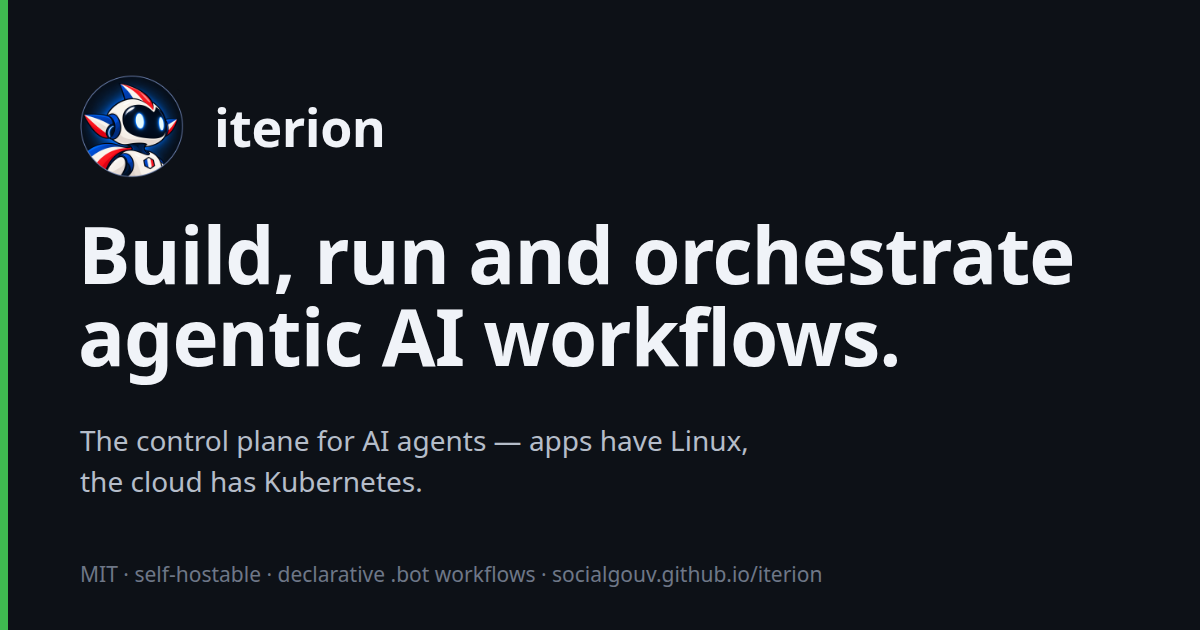
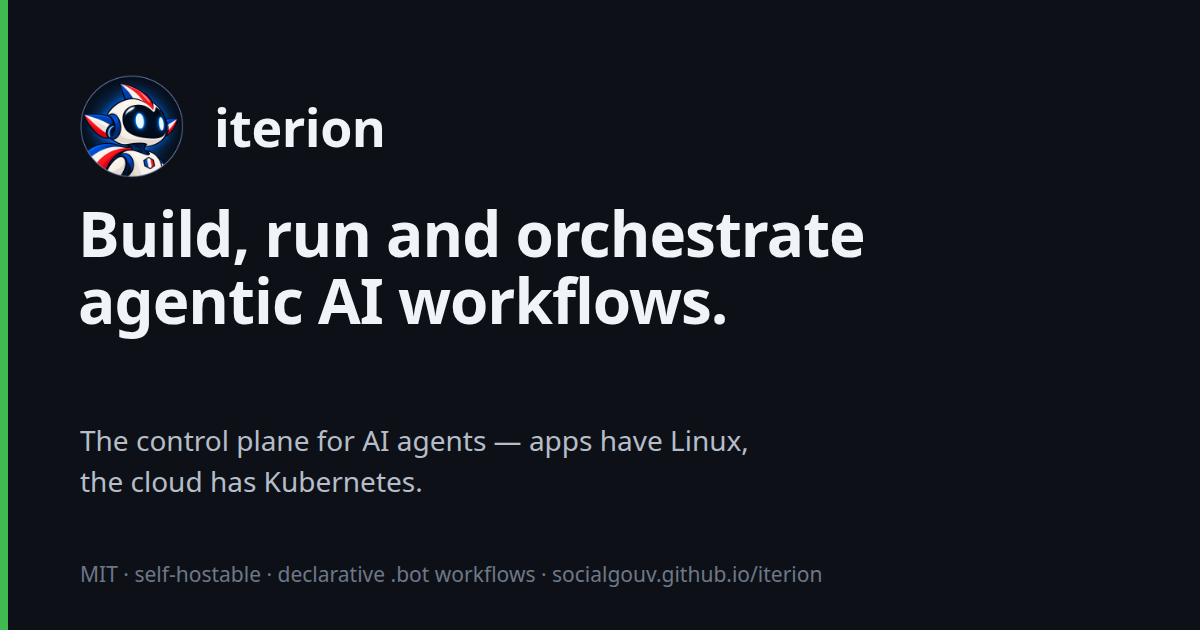
fix(brand): the OG card and its guard, read as one change
Round 3 read rounds 1 and 2 as a single diff, hunting the defect that exists
only because two fixes met. It found one, and it is the archetype: each change
is safe alone.

Round 1 replaced the card's heading with a free-wrapping 47-character sentence
at 78px, leaving ~45px of clearance above the tagline. Round 2 replaced the
pixel-compare guard — rightly, the render depends on unpinned host fonts — with
a source-hash compare. Together:

- the heading wraps to THREE lines under DejaVu Sans, printing `workflows.`
  straight through the tagline. DejaVu is not an exotic host: it is this
  card's own SECOND font-family entry, and the default on a minimal Debian or
  CI image. Rendered and looked at, not inferred.
- and no gate could see it, because the source-hash guard never opens the PNG.
  Measured: with `docs/public/og.png` DELETED it reported "matches the
  committed og-card.html". Strictly weaker than the pixel compare it replaced,
  for the one case it still claimed to cover — while `positioning.md` told the
  reader it "verifies the committed PNG".

So: the heading is sized to survive the widest font in its own stack (62px,
two lines under both fontconfigs, verified by rendering each), and the guard
checks the artefact as well as the source — present, a PNG, 1200×630 from the
IHDR, which is font-independent and does not pretend to judge how the card
looks. Three holes, three distinct diagnostics, each falsified.
[…]

Changed region(s): [[0.0617, 0.3317, 0.8942, 0.6333]]

diff --git a/docs/scripts/og-card.html b/docs/scripts/og-card.html
@@ -21,8 +21,14 @@
       .brand span { font-size: 52px; font-weight: 700; letter-spacing: -0.5px; }
       /* No <br /> in the heading: the definition has to appear as one
          uninterrupted sentence for scripts/brand/positioning-check.sh to
-         recognise it. max-width sets where it wraps instead. */
-      h1 { position: absolute; left: 78px; top: 214px; margin: 0; max-width: 1010px; font-size: 78px; line-height: 1.05; font-weight: 700; letter-spacing: -1px; }
+         recognise it. max-width sets where it wraps instead.
+         Sized to survive the WIDEST font in its own stack, not the first one:
+         at 78px the sentence wrapped to three lines under DejaVu Sans — this
+         card's own second font-family entry, and the default on a minimal
+         Debian or CI image — and printed its last word straight through the
+         tagline. Nothing pins a font here, so the layout has to hold without
+         one. */
+      h1 { position: absolute; left: 78px; top: 200px; margin: 0; max-width: 1010px; font-size: 62px; line-height: 1.08; font-weight: 700; letter-spacing: -1px; }
       .tagline { position: absolute; left: 80px; top: 420px; margin: 0; font-size: 28px; line-height: 1.45; color: #b5bdc9; }
       .footer { position: absolute; left: 80px; top: 560px; font-size: 21px; color: #6e7787; }
     </style>

diff --git a/studio/src/views/CloudHome/definition.test.tsx b/studio/src/views/CloudHome/definition.test.tsx
@@ -4,6 +4,7 @@ import { cleanup, render, screen } from "@testing-library/react";
 import { Router } from "wouter";
 
 import CloudHome from "@/views/CloudHome";
+import { STUDIO_BASE } from "@/lib/scope";
 
 // The sentence, read from nowhere else. A constant here and a constant in the
 // component would both be "the source", and the point of the guard is that
@@ -47,7 +48,12 @@ describe("the iterion.cloud product home", () => {
         <CloudHome signedIn />
       </Router>,
     );
-    expect(screen.getAllByRole("link", { name: /Open the studio/ })[0]).toBeTruthy();
+    // The HREF, not the caption. Asserting the label alone left the bench
+    // green while entryHref pointed back at /login — the exact behaviour the
+    // comment above forbids — and equally green when it pointed at "/", which
+    // loops the CTA back to the page it is on.
+    const cta = screen.getAllByRole("link", { name: /Open the studio/ })[0];
+    expect(cta.getAttribute("href")).toBe(STUDIO_BASE);
     expect(screen.queryByRole("link", { name: /^Sign in/ })).toBeNull();
   });
 });

diff --git a/assets/brand/positioning.md b/assets/brand/positioning.md
@@ -44,7 +44,7 @@ link-preview regression the guard exists to catch.
 | `charts/iterion/README.md` | 1 | the Helm chart's front page |
 | `docs/cloud-overview.md` | 1 | the cloud product page in the docs |
 | `docs/index.md` | 1 | the docs hero |
-| `docs/scripts/og-card.html` | 1 | the OpenGraph image — **regenerate `docs/public/og.png` with `task brand:og` after editing**, and `task brand:og:check` verifies the committed PNG was rendered from THIS card (a recorded source hash, not a pixel compare — the render depends on host fonts) |
+| `docs/scripts/og-card.html` | 1 | the OpenGraph image — **regenerate `docs/public/og.png` with `task brand:og` after editing**, and `task brand:og:check` checks both that the PNG is a well-formed 1200×630 file and that its recorded source hash still matches this card — not a pixel compare, because the render depends on host fonts |
 | `docs/.vitepress/config.ts` | 3 | the docs site `description` + the og and twitter cards |
 | `studio/index.html` | 3 | the served HTML of iterion.cloud — what a crawler and a link preview read — + its og and twitter cards |
 | `studio/public/manifest.json` | 1 | the installed-app description |
